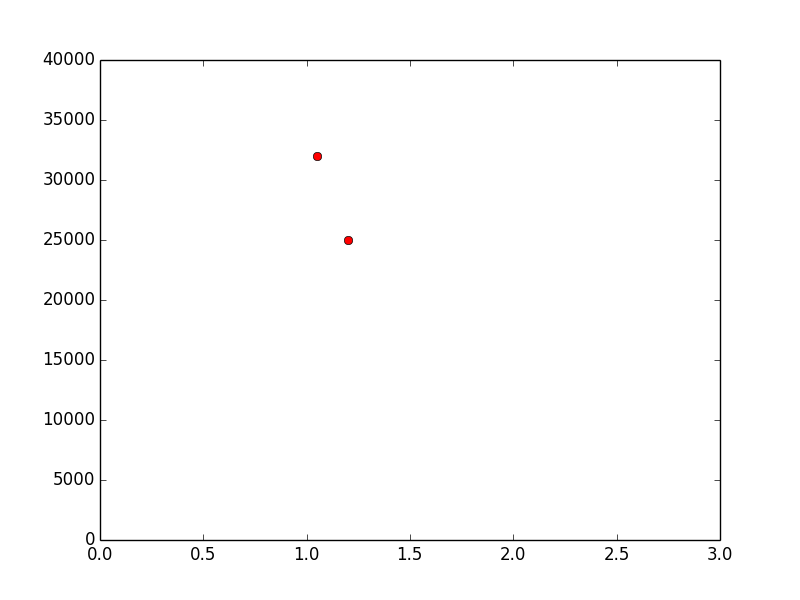
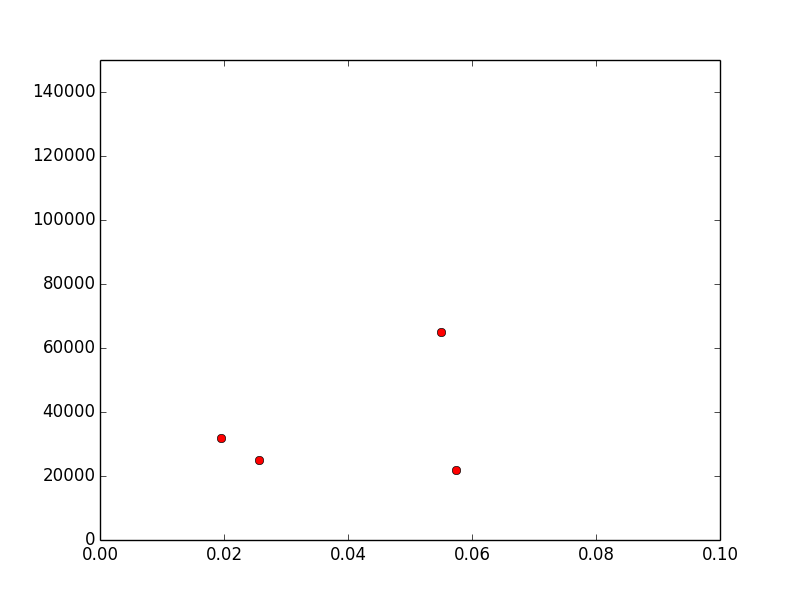
last update

diff --git a/final_project/motorTrend/final_project2.py b/final_project/motorTrend/final_project2.py
@@ -146,8 +146,7 @@ def get_score(codes, text):
 		#print("CHECKING SCORE")
 		score = sentiment_score(codes, text, avg_total_words = True, punct = ['.', '?', '!', ',', '-', "'", ';', ':', '/', "\n", "\t", '"'])
 		#if (score > 0):
-		score = score + 1
-		score = ("{0:.2f}".format(score))
+		score = ("{0:.5f}".format(score))
 		#score_list.append(score)
 		return score
 		#else:
@@ -164,7 +163,7 @@ def get_msrp(make, model, base_url):
 	#return price_url
 	price_soup = BeautifulSoup(requests.get(price_url).text)
 	#stuff = price_soup.find_all('span', {'class': 'amount'})
-	stuff = price_soup.find_all('div', {'class': 'vehicle-price section-subtitle'})
+	stuff = price_soup.find_all('div', {'class': ' section-subtitle'})
 	#for p in stuff:
 	#	price = p.get('vehicle-price section-subtitle')
 	price = '\n'.join([t.float for t in stuff])
@@ -192,7 +191,7 @@ def plot_points(price_list, score_list):
 		#scores_prices.append([x_axis[L]], [y_axis[L]])
 		plt.plot([x_axis[L]], [y_axis[L]], 'ro')
 		L += 1
-		plt.axis([0, 3, 0, 40000])
+		plt.axis([0, .1, 0, 150000])
 		plt.savefig("scores_price_plot.png")
 	plt.show()
 	return plt

diff --git a/final_project/motorTrend/final_test2.py b/final_project/motorTrend/final_test2.py
@@ -82,24 +82,26 @@ r = 0
 while (r < len(score_list)):
 	print(score_list[r])
 	r += 1
-score_list.append(1.2)
+score_list.append(.02567)
+score_list.append(.05735)
+score_list.append(.05502)
 #get MSRP
 price = get_msrp(make, model, base_url)
 #print("PRICE URL= " + price)
 print(" ")
-print("Price = " + price)
-#price_list = [32000, 25000]
+#print("Price = " + str(price))
+price_list = [32000, 25000, 22000, 65000]
+'''
 price_list = []
 price_list.append(price)
 price_list.append(25000)
 
 print(score_list)
 print(price_list)
-
 '''
+
 #plot price and sent. score on graph
 print(" ")
 print("Plotting")
 PLOT = plot_points(price_list, score_list)
 print(PLOT)
-'''
